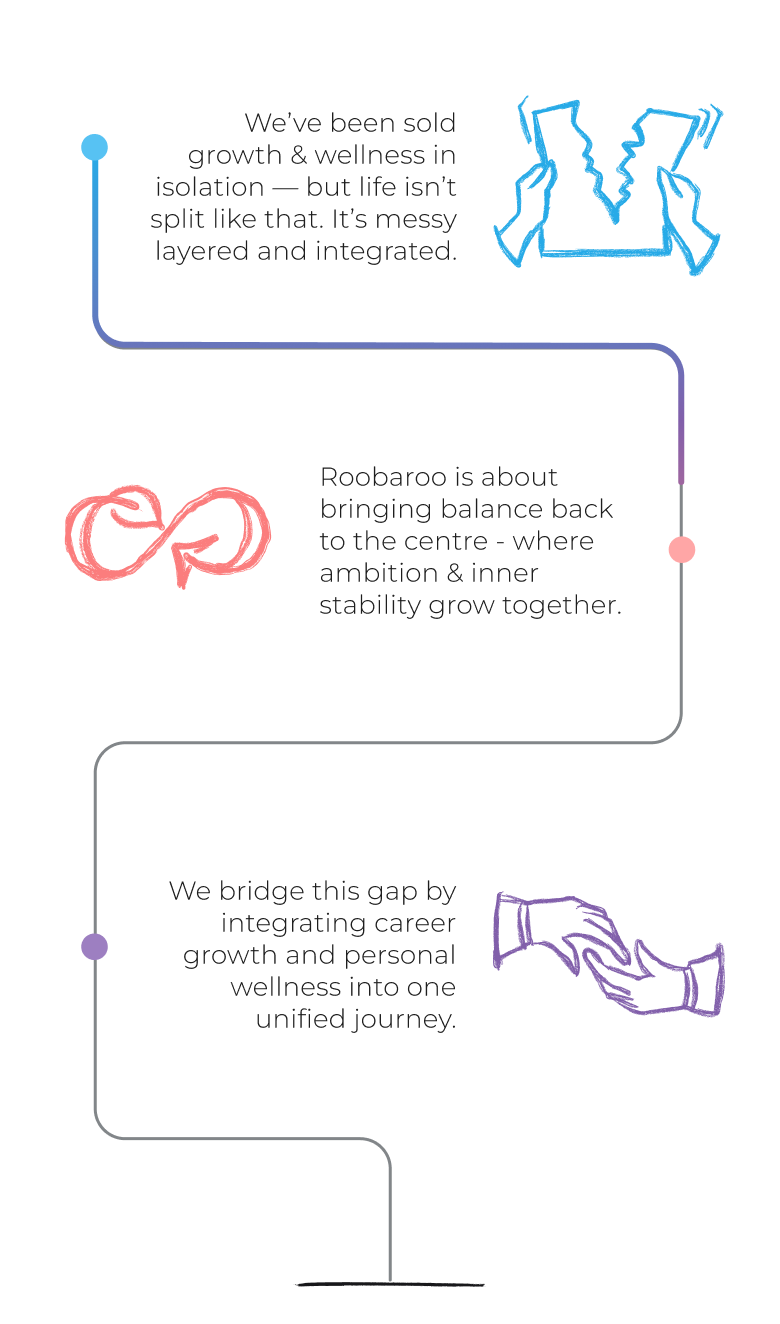
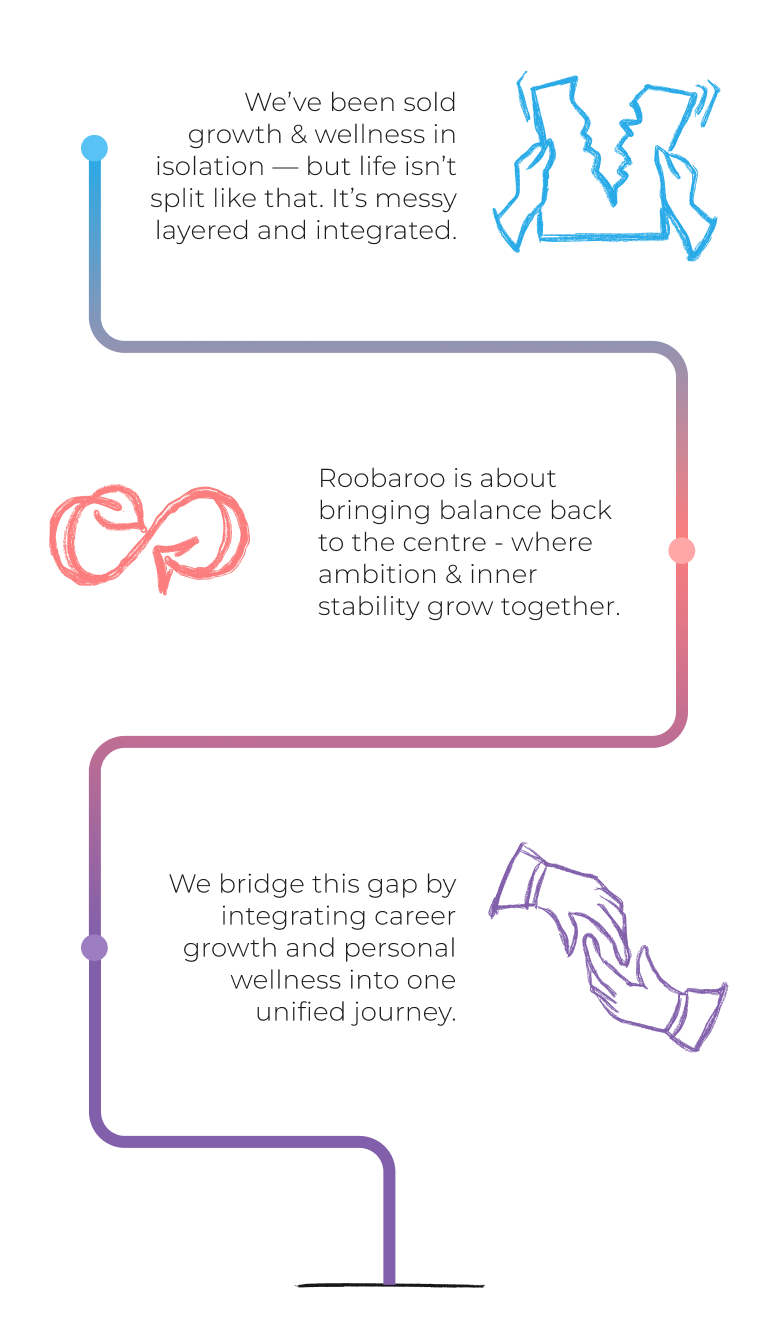
fixes

diff --git a/src/containers/BrandStory/BrandStory.module.css b/src/containers/BrandStory/BrandStory.module.css
@@ -268,7 +268,7 @@
 
   .mobilestroke {
     width: 100%;
-    height: 21.5px;
+    height: 27.5px;
     background-image: url("/assets/icons/pagestroke.svg");
     background-repeat: no-repeat;
     /* transform: rotate(180deg); */
@@ -282,11 +282,11 @@
   }
 
   .circlenew {
-    background-image: url("/assets/images/mobcircle.png");
-    top: 734px;
+    background-image: url("/assets/images/newbg.png");
+    top: 762px;
     width: 400px;
-    aspect-ratio: 1/1;
-    left: -50px;
+    aspect-ratio: 1 / 1;
+    left: -70px;
     background-repeat: no-repeat;
     /* transform: rotate(180deg); */
     background-size: cover;
@@ -296,13 +296,17 @@
   }
 
   .pinkbox {
-    top: 793px;
-    width: 147px;
+    top: 824px;
+    border-radius: 8.836px;
+    width: 78.967px;
+    right: 27.25641vw;
   }
 
   .blueBox {
-    width: 147px;
-    top: 843px;
+    width: 87.582px;
+    border-radius: 8.836px;
+    top: 877px;
+        right: 12.25641vw;
   }
 
   .tiles {

diff --git a/src/containers/LandingPage/components/KnowYourBuddy/KnowYourBuddy.js b/src/containers/LandingPage/components/KnowYourBuddy/KnowYourBuddy.js
@@ -74,11 +74,14 @@ import { useMediaQuery } from "react-responsive";
 const KnowYourBuddy = () => {
   const isMobile = useMediaQuery({ maxWidth: 450 });
   const links = [
-    { icon: colorlinkedin, link: "https://linktr.ee/roobaroo.ai" },
+    {
+      icon: colorlinkedin,
+      link: "https://www.linkedin.com/company/roobaroo-ai",
+    },
     { icon: colorinstagram, link: "https://www.instagram.com/roobaroo.ai/" },
     {
       icon: colorlinktree,
-      link: "https://www.linkedin.com/company/roobaroo-ai",
+      link: "https://linktr.ee/roobaroo.ai",
     },
   ];
 

diff --git a/src/containers/LandingPage/components/GrowSection/GrowSection.module.css b/src/containers/LandingPage/components/GrowSection/GrowSection.module.css
@@ -74,6 +74,7 @@
 
     .subtxt {
         font-size: 35.834px;
+        text-align: center;
     }
     .mobile{
         width: 100%;

diff --git a/src/containers/LandingPage/components/LostSection/LostSectio.module.css b/src/containers/LandingPage/components/LostSection/LostSectio.module.css
@@ -135,7 +135,7 @@
   }
 
   .lostSection {
-    padding: 64px 16px 24px 16px;
+    padding: 64px 16px 24px 29px;
   }
 
   .subttx {
